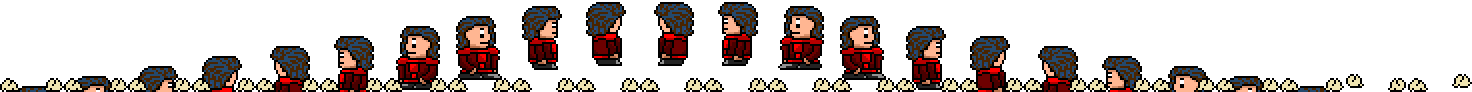
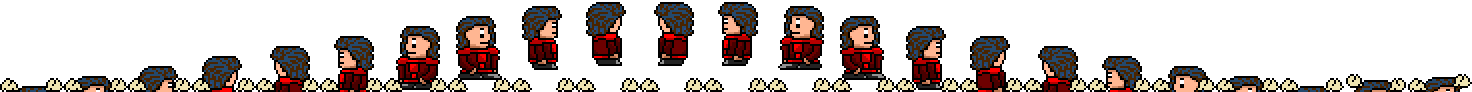
Diglet fix. Removed some useless stuff.

Changed region(s): [[0.9062, 0.8261, 1.0, 1.0]]

diff --git a/src/dudes/Monster.java b/src/dudes/Monster.java
@@ -134,6 +134,7 @@ public abstract class Monster extends Dude {
 
     	int index = (int) (rand*lootItems.length);
     	w = lootItems[index];
+    	w = new Diglet(pos[0], pos[1]);
 		w.createGroundSprite();
 		return w;
     }

diff --git a/src/weapons/Wizard.java b/src/weapons/Wizard.java
@@ -51,6 +51,7 @@ public class Wizard extends RangeWeapon {
 	@Override
 	public void attack() throws SlickException {
 		super.attack();
+		System.out.println("hi");
 		lightning.restart();
 	}
 	
